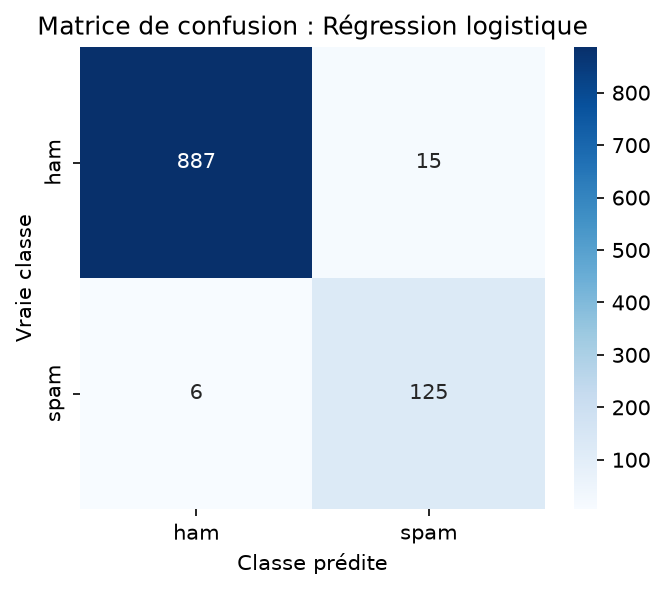
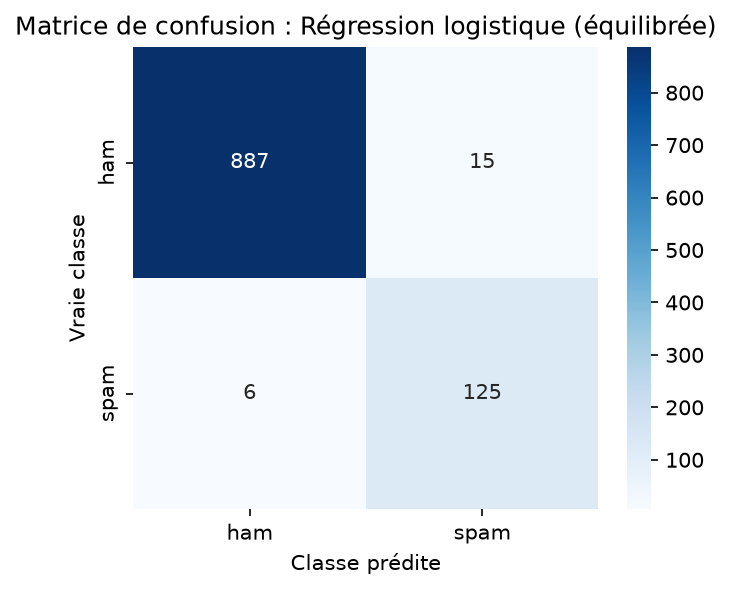
Add Task 3 - Spam Detection

diff --git a/DataScience-Task3-SpamDetection/README.md b/DataScience-Task3-SpamDetection/README.md
@@ -18,8 +18,7 @@ Il s'agit d'une **classification binaire de texte** (traitement du langage natur
 
 ### Les modèles comparés
 - **Multinomial Naive Bayes** : modèle classique du texte, qui estime la probabilité d'un message d'être spam d'après les mots qu'il contient.
-- **Régression logistique** : modèle linéaire qui attribue un poids à chaque mot.
-- **Régression logistique `balanced`** : même modèle, mais les erreurs sur la classe spam (plus rare) sont davantage pénalisées.
+- **Régression logistique** (`class_weight="balanced"`) : modèle linéaire qui attribue un poids à chaque mot. L'option `balanced` pénalise davantage les erreurs sur la classe spam, plus rare.
 
 ### Les métriques utilisées
 - **Accuracy** : proportion de messages bien classés.
@@ -98,16 +97,16 @@ Chaque message passe par cinq étapes :
 
 ## Résultats
 
-Les trois modèles sont évalués sur le même jeu de test (1 033 messages, dont 131 spams). Les métriques portent sur la classe spam.
+Les deux modèles sont évalués sur le même jeu de test (1 033 messages, dont 131 spams). Les métriques portent sur la classe spam.
 
-| Métrique | Naive Bayes | Régression logistique | Régression logistique `balanced` |
-|---|---|---|---|
-| Accuracy | 0,972 | 0,965 | **0,980** |
-| Precision | **1,00** | 0,98 | 0,89 |
-| Recall | 0,78 | 0,74 | **0,95** |
-| F1-score | 0,88 | 0,84 | **0,92** |
-| Faux positifs (ham bloqués) | 0 | 2 | 15 |
-| Faux négatifs (spams non détectés) | ≈ 29 | 34 | 6 |
+| Métrique | Naive Bayes | Régression logistique (`balanced`) |
+|---|---|---|
+| Accuracy | 0,972 | **0,980** |
+| Precision | **1,00** | 0,89 |
+| Recall | 0,78 | **0,95** |
+| F1-score | 0,88 | **0,92** |
+| Faux positifs (ham bloqués) | 0 | 15 |
+| Faux négatifs (spams non détectés) | ≈ 29 | 6 |
 
 ### Matrices de confusion
 
@@ -115,10 +114,7 @@ Les trois modèles sont évalués sur le même jeu de test (1 033 messages, dont
 
 ![Matrice de confusion : régression logistique](images/confusion_lr.png)
 
-![Matrice de confusion : régression logistique équilibrée](images/confusion_lr_balanced.png)
-
-### Effet de `class_weight="balanced"`
-Le nombre de spams non détectés passe de 34 à 6 (recall 0,95), au prix de 13 messages légitimes bloqués en plus (15 faux positifs au lieu de 2, precision 0,89). Le modèle est moins prudent, car les erreurs sur la classe spam, plus rare, sont davantage pénalisées.
+Naive Bayes ne bloque aucun message légitime mais laisse passer environ un spam sur cinq. La régression logistique équilibrée détecte 125 spams sur 131, au prix de 15 messages légitimes bloqués.
 
 ## Pourquoi le recall est important pour détecter le spam
 
@@ -130,15 +126,20 @@ Il faut cependant l'équilibrer avec la precision : bloquer un message légitime
 
 La **régression logistique équilibrée** est retenue : elle obtient la meilleure accuracy (0,980), le meilleur recall (0,95) et le meilleur F1-score (0,92). Pour un filtre anti-spam, laisser passer des messages frauduleux est le risque principal. Naive Bayes reste préférable si l'on veut éviter à tout prix de bloquer un message légitime.
 
+**Limites** : un seul découpage, 131 spams en test, deux modèles comparés sur le même jeu de test, et un jeu de données ancien issu de sources différentes.
 
-## nuages de mots
+## Bonus : nuages de mots
 
 ![Nuages de mots spam et ham](images/wordclouds.png)
 
 Le vocabulaire du spam (`free`, `claim`, `win`, `prize`, `urgent`, tarifs et numéros surtaxés) diffère nettement de celui des messages légitimes (conversation courante : `go`, `come`, `love`, `ok`). Certains mots, comme `call`, apparaissent dans les deux classes : la fréquence seule ne suffit pas, d'où l'intérêt du TF-IDF et du modèle.
+
+Les termes `gt` et `lt` du ham sont des résidus d'encodage HTML, et le stemming tronque certains mots (`mobil`, `servic`).
+
+
 ## Outils
 
-Python, pandas, NumPy, scikit-learn, NLTK, matplotlib, seaborn, Jupyter Notebook
+Python, pandas, NumPy, scikit-learn, NLTK, WordCloud, matplotlib, seaborn, Jupyter Notebook
 
 ## Auteur
 
